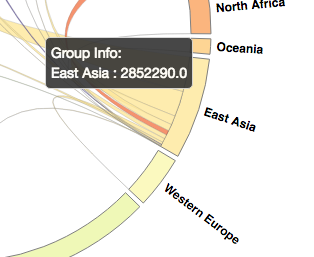
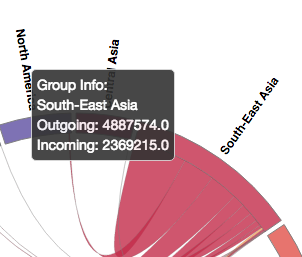
ENH chord diagram group tag
now includes incoming totals

diff --git a/ChordDiagram/D3_template_ChordDiagram.html b/ChordDiagram/D3_template_ChordDiagram.html
@@ -106,16 +106,19 @@ body, html { overflow: scroll; height: 100% }
       	<div class="tab-pane" id="c_tab">
             <h1>Example</h1>
           	<h2>Introduction</h2>
-          	<p>Here we show an example of a typical use case and what the resulting plot should look like. In this example we will plot a word cloud of the 2012 Democratic and Republican Convention speeches. The data can be found either on Platform (schema.table = <i>pcooman.conventions</i> on redshift-general) or here: <i>https://gist.github.com/mollietaylor/3671518</i>. Platform does not support outgoing links, so you will need to manually copy and paste the url.</p>
+          	<p>Here we show an example of a typical use case and what the resulting plot should look like. In this example we will plot the flow of refugees between different regions of the world. The data can be found either on Platform (schema.table = <i>pcooman.refugees</i> on redshift-general) or here: <i>http://www.global-migration.info/</i>. Platform does not support outgoing links, so you will need to manually copy and paste the url.</p>
             <h2>Data table</h2>
-          	<img src="https://github.com/pcooman/d3_tools/blob/master/WordCloud/WordCloud_Table.png?raw=true">
-          	<p>In this table, the <i>wordper25k</i> column contains the word we want to plot and the <i>democrats</i> and <i>republicans</i> columns contain the word counts from the 2012 DNC and RNC speecehs respectively. You don't need to worry about data types. D3 reads in all data as strings, so our code automatically converts the word counts to integers.</p>
+          	<img src="https://github.com/pcooman/d3_tools/blob/master/ChordDiagram/ChordDiagram_Table.png?raw=true">
+          	<p>In this table, the <i>origin</i> and <i>destination</i> columns respectively contain the countries of origin of refugees and their ultimate. The <i>count</i> column conatins the total number of refugees that followed each path.</p>
           	<h2>Sample plot</h2>
           	<p>If everything goes well. Your plot should look something like this:</p>
-            <img src="https://github.com/pcooman/d3_tools/blob/master/WordCloud/WordCloud_Example.png?raw=true">
-          	<p>The word cloud layout randomizes the position and rotation of words, so your plot may looks slightly different from the one show above. This is fine, just make sure the largest words ("Obama" for <i>Democrats</i> or "Romney" for <i>Republicans</i>) have been included.</p>
-            <p>If you hover over a word (in your own D3 plot, not in the static sample image shown above), a tooltip should pop up, indicating the word and its word count. This is a handy way to check the counts of less frequent, barely visible words.The following image shows ane xample of this tooltip:</p>
-          	<img src="https://github.com/pcooman/d3_tools/blob/master/WordCloud/WordCloud_Tooltip.png?raw=true">
+            <img src="https://github.com/pcooman/d3_tools/blob/master/ChordDiagram/ChordDiagram_Toolbar_full.png?raw=true">
+            <img src="https://github.com/pcooman/d3_tools/blob/master/ChordDiagram/ChordDiagram_Example_full.png?raw=true">
+            <p>If you hover over a segment of the outer circle, a tooltip should appear. This indicates the total number of refugees that originated from this region:</p>
+            <img src="https://github.com/pcooman/d3_tools/blob/master/ChordDiagram/ChordDiagram_Tooltip_group.png?raw=true">
+            <p>You can also hover over a chord to bring up a tooltip listing the number of refugees moving along that path:</p>
+            <img src="https://github.com/pcooman/d3_tools/blob/master/ChordDiagram/ChordDiagram_Tooltip_chord.png?raw=true">
+            <p>The color of each chord corresponds to the region of origin.</p>
             <ccontent></ccontent>
         </div>
       
@@ -219,10 +222,13 @@ draw = function(data, vis_width, vis_height, params) {
         g = _.where(mmap, {id: d.index });
         m.gname = g[0].name;
         m.gdata = g[0].data;
-        m.gvalue = d.value;
+        m.value_out = d.value;
       }
+      debugger;
       m.mtotal = _.reduce(matrix, function (m1, n1) { 
-        return m1 + _.reduce(n1, function (m2, n2) { return m2 + n2}, 0);
+        return m1 + _.reduce(n1, function (m2, n2) { 
+            debugger;            
+            return m2 + n2}, 0);
       }, 0);
       return m;
     }
@@ -308,18 +314,20 @@ draw = function(data, vis_width, vis_height, params) {
         return "Chord Info:<br/>"
         +  d.sname + " to " + d.tname
         + ": " + p(d.svalue) + "<br/>"
-        + d.tname + " to " + d.sname
-        + ": " + p(d.tvalue) + "<br/>";
+        //+ d.tname + " to " + d.sname
+        //+ ": " + p(d.tvalue) + "<br/>";
         }
           
     function groupTip (d) {
+        debugger;
         var p = d3.format(".1f"), q = d3.format(",.2r")
         return "Group Info:<br/>"
-        + d.gname + " : " + p(d.gvalue) + "<br/>";
+        + d.gname + "<br/>"
+        + "Outgoing: " + p(d.value_out) + "<br/>"
+        + "Incoming:" + p(d.value_out);
         }
 
     function mouseover_path(d, i) {
-      debugger;
         d3.select("#tooltip")
         .style("visibility", "visible")
         .html(groupTip(rdr(d)))
